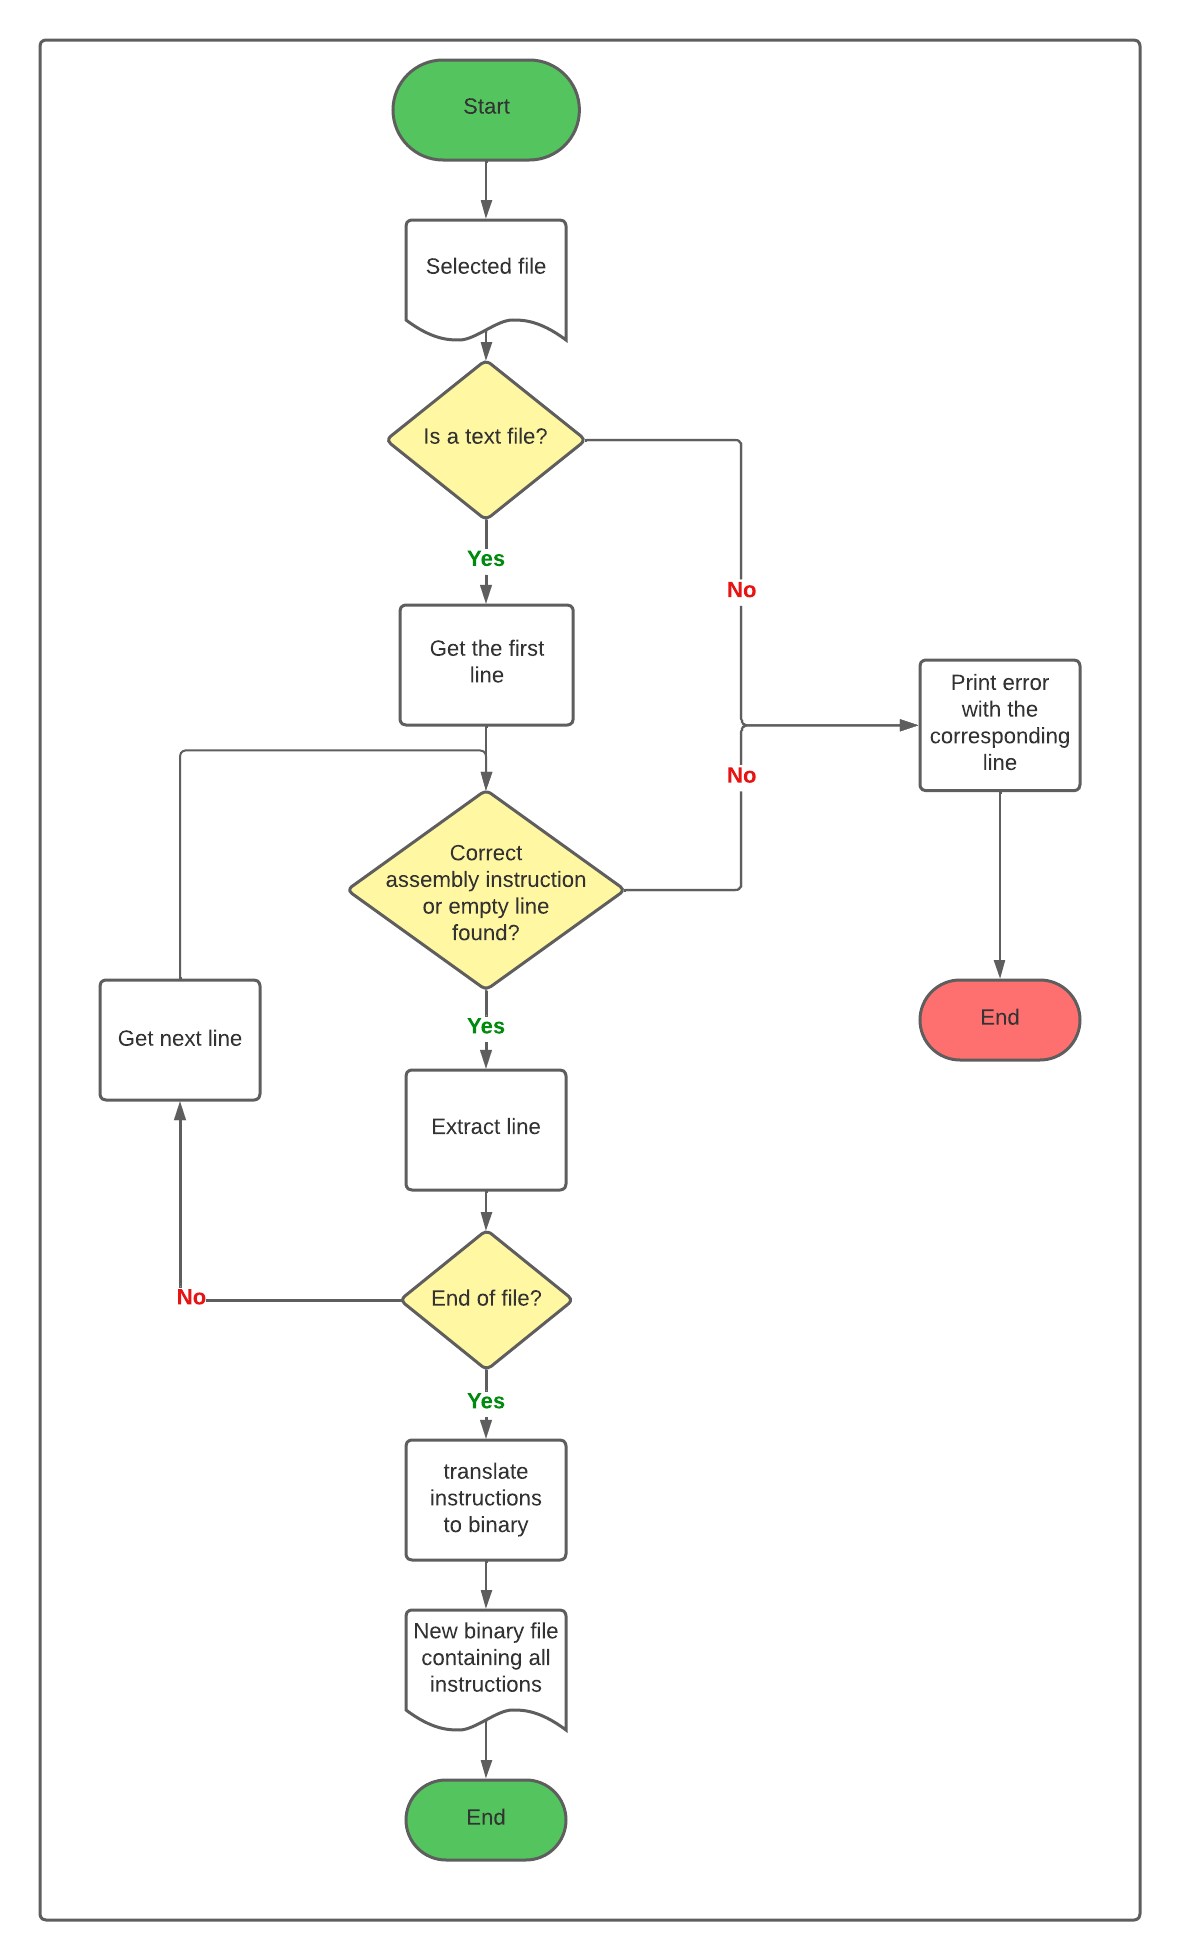
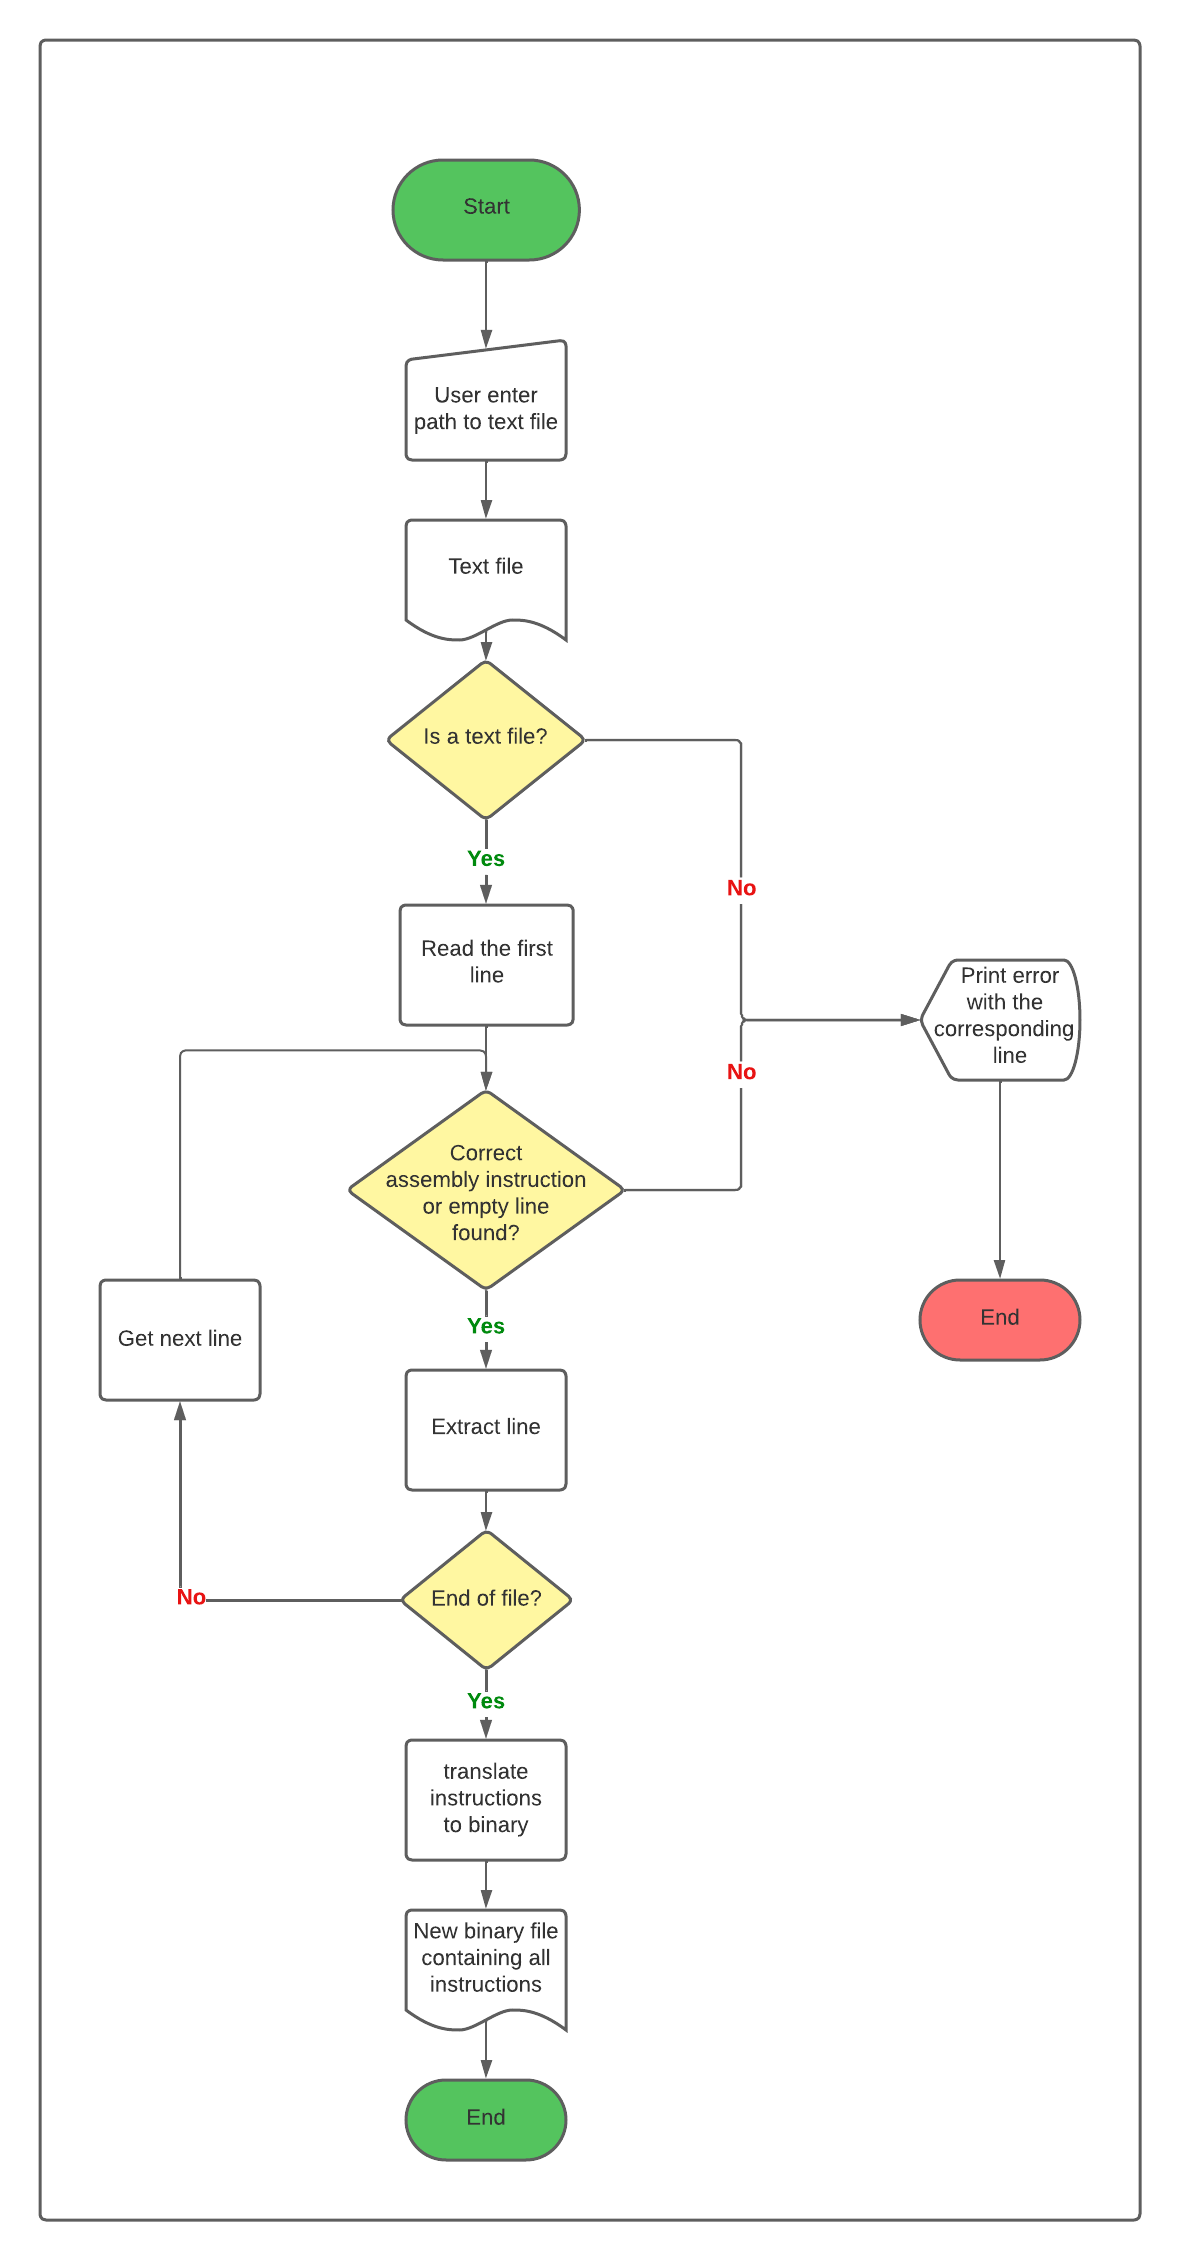
Docs: Parser flowcharts
Addition of the second flowchart and update of the first one.

diff --git a/Documents/TechnicalSpecifications.md b/Documents/TechnicalSpecifications.md
@@ -270,11 +270,13 @@ Since are aiming for an educational purpose, our CPU's architecture, the control
 
 To translate from Assembly language to machine code[^7] and compile the resulting machine code we need to be able to identify what is contained in a string[^8]. To achieve this we can create two different parsers. 
 
-This is a flowhchart of the two parsers used for our project:
+This is the flowcharts of the two parsers used for our project:
 
 <img src="./Img/ParserFC.png" height="900px">
 
+<img src="./Img/Parser2FC.png" height="790px">
 To identify Assembly keywords and their equivalents we are using a mix of arrays and enumerators[^9].
+
 
 For parsing from Assembly language to machine code we are using an array of characters to identify the instructions and registers/values:
 
